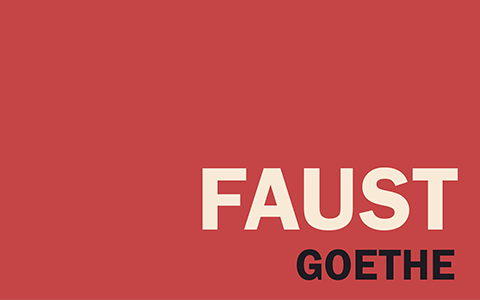
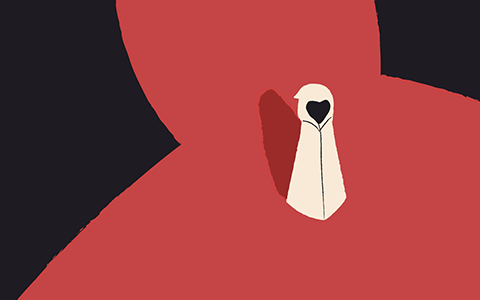
6

diff --git a/index.html b/index.html
@@ -36,20 +36,28 @@
 
         <main>
             <div class="gallery-grid">
-                <div class="gallery-item" tabindex="0" role="img" aria-label="The Met Rentals catalogue" style="background-image: url('images/thumb1.png');" data-src="images/mr1.avif, images/mr2.avif, images/mr3.avif, images/mr4.avif, images/mr5.avif, images/mr6.avif, images/mr7.avif" data-title="The Met Rentals" data-desc="A multi-page catalogue concept for a fictional Metropolitan Museum of Art rental service."></div>
+                <!-- 1. Top Left: The Met Rentals -->
+                <div class="gallery-item" tabindex="0" role="img" aria-label="The Met Rentals catalogue" style="background-image: url('images/thumb1.png');" data-src="images/mr1.avif, images/mr2.avif, images/mr3.avif, images/mr4.avif, images/mr5.avif, images/mr6.avif, images/mr7.avif" data-title="THE MET RENTALS - SERVICE CATALOGUE" data-desc="A multi-page catalogue concept for a fictional Metropolitan Museum of Art rental service."></div>
                 
-                <div class="gallery-item" tabindex="0" role="img" aria-label="Rawhead Rex poster" style="background-image: url('images/thumb2.png');" data-src="images/image2.avif" data-title="RAWHEAD REX RETROSPECTIVE POSTER" data-desc="A spec poster designed for a Clive Barker film retrospective at the Revue Cinema in Toronto."></div>
+                <!-- 2. Top Right: Faust -->
+                <div class="gallery-item" tabindex="0" role="img" aria-label="Faust book cover" style="background-image: url('images/thumb2.png');" data-src="images/image2.avif" data-title="FAUST" data-desc="Book cover concept"></div>
                 
+                <!-- 3. Middle Left: Iron Kettle -->
                 <div class="gallery-item" tabindex="0" role="img" aria-label="Iron Kettle Tea Packaging" style="background-image: url('images/thumb3.png');" data-src="images/ik1.avif, images/ik2.avif" data-title="IRON KETTLE - TEA PACKAGING" data-desc="A complete packaging design and visual system for a premium mint green tea line."></div>
                 
-                <div class="gallery-item" tabindex="0" role="img" aria-label="Teeth Eaters illustration" style="background-image: url('images/thumb4.png');" data-src="images/image4.avif" data-title="Teeth Eaters" data-desc="Editorial illustration"></div>
+                <!-- 4. Middle Right: Rawhead Rex -->
+                <div class="gallery-item" tabindex="0" role="img" aria-label="Rawhead Rex poster" style="background-image: url('images/thumb4.png');" data-src="images/image4.avif" data-title="RAWHEAD REX RETROSPECTIVE POSTER" data-desc="A spec poster designed for a Clive Barker film retrospective at the Revue Cinema in Toronto."></div>
                 
-                <div class="gallery-item" tabindex="0" role="img" aria-label="The Picture of Dorian Gray cover" style="background-image: url('images/thumb5.png');" data-src="images/image5.avif" data-title="The Picture of Dorian Gray" data-desc="Book cover concept"></div>
+                <!-- 5. Bottom Left: Dorian Gray -->
+                <div class="gallery-item" tabindex="0" role="img" aria-label="The Picture of Dorian Gray covers" style="background-image: url('images/thumb5.png');" data-src="images/image5_1.avif, images/image5_2.avif, images/image5_3.avif" data-title="THE PICTURE OF DORIAN GRAY - BOOK COVER CONCEPTS" data-desc="Wrap-around cover designs for Oscar Wilde's classic novel."></div>
                 
-                <div class="gallery-item" tabindex="0" role="img" aria-label="Red BG with blocky lettering reads Faust, with Goethe underneath in smaller text" style="background-image: url('images/thumb6.png');" data-src="images/image6.avif" data-title="Faust" data-desc="Book cover concept"></div>
+                <!-- 6. Bottom Right: TBD Placeholder -->
+                <div class="gallery-item" tabindex="0" role="img" aria-label="Project 6 TBD" style="background-image: url('images/thumb6.png');" data-src="images/image6.avif" data-title="PROJECT 6 (TBD)" data-desc="Details coming soon."></div>
                 
+                <!-- 7. They Still Suck -->
                 <div class="gallery-item" tabindex="0" role="img" aria-label="Starbucks ad concept" style="background-image: url('images/thumb7.png');" data-src="images/image7.avif" data-title="They Still Suck" data-desc="Ad concept"></div>
                 
+                <!-- 8. Night of the Living Dead -->
                 <div class="gallery-item" tabindex="0" role="img" aria-label="Night of the Living Dead poster" style="background-image: url('images/thumb8.png');" data-src="images/image8.avif" data-title="NIGHT OF THE LIVING DEAD" data-desc="Movie poster concept"></div>
             </div>
         </main>

diff --git a/css/style.css b/css/style.css
@@ -98,16 +98,11 @@ main { flex-grow: 1; }
     grid-template-columns: repeat(2, var(--thumb-width)); 
     gap: var(--grid-gap); 
     justify-content: center; 
-    visibility: hidden; 
-}
-
-.gallery-grid.loaded {
-    visibility: visible; 
 }
 
 .gallery-item { position: relative; width: var(--thumb-width); height: var(--thumb-height); background-color: var(--light-grey); background-size: cover; background-position: center; cursor: pointer; }
 
-/* Unified 65% white overlay for all gallery items */
+/* Unified 80% white overlay for all gallery items */
 .gallery-item::after { 
     content: ""; 
     position: absolute; 
@@ -123,17 +118,19 @@ main { flex-grow: 1; }
 
 .gallery-item:hover::after,
 .gallery-item.touch-active::after { 
-    opacity: 0.65; 
+    opacity: 0.8; 
 }
 
-/* Central Hover Text - Top-Left Justified, 60% Width, StolzlBook */
+/* Hover Text - Strictly Top-Left Justified */
 .gallery-item::before {
     content: attr(data-title);
     position: absolute;
-    top: 50%;
-    left: 50%;
-    transform: translate(-50%, -50%);
-    width: 60%;
+    top: 16px;
+    left: 16px;
+    right: 16px;
+    margin: 0;
+    padding: 0;
+    transform: none;
     color: var(--black);
     font-family: 'StolzlBook', sans-serif;
     font-size: 34px; 
@@ -144,6 +141,7 @@ main { flex-grow: 1; }
     opacity: 0;
     transition: opacity 0.2s;
     pointer-events: none; 
+    display: block;
 }
 
 .gallery-item:hover::before,
